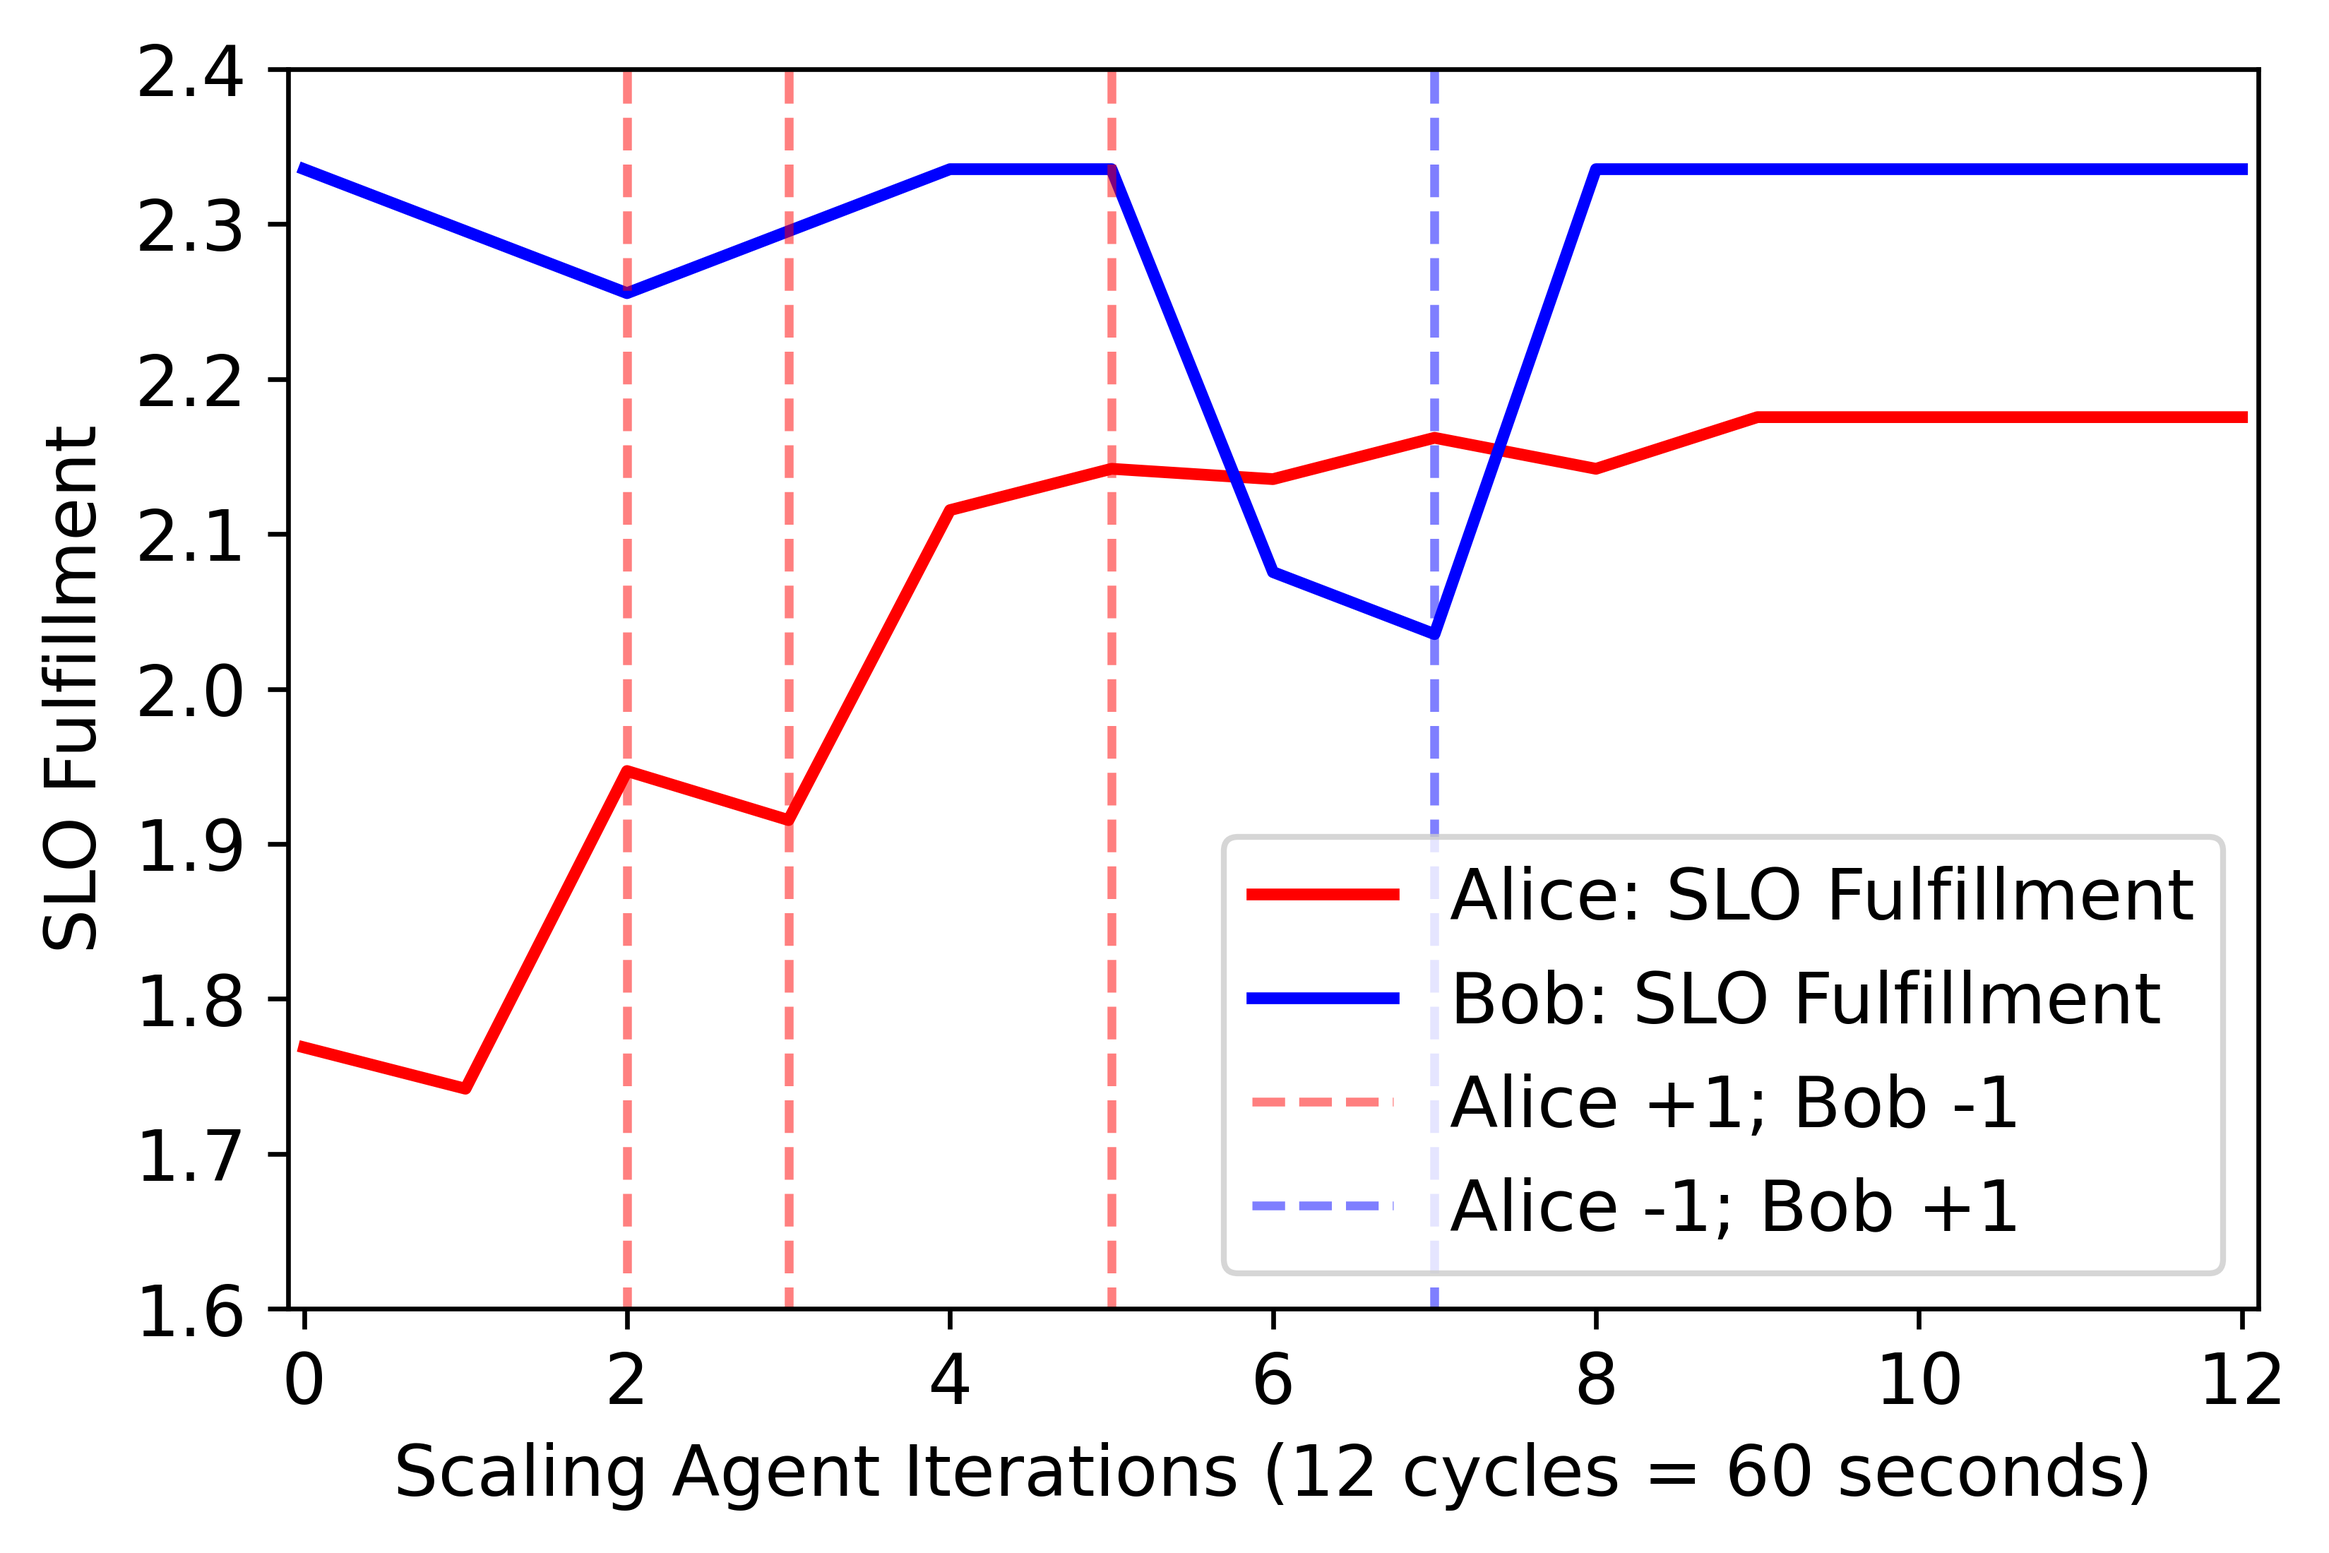
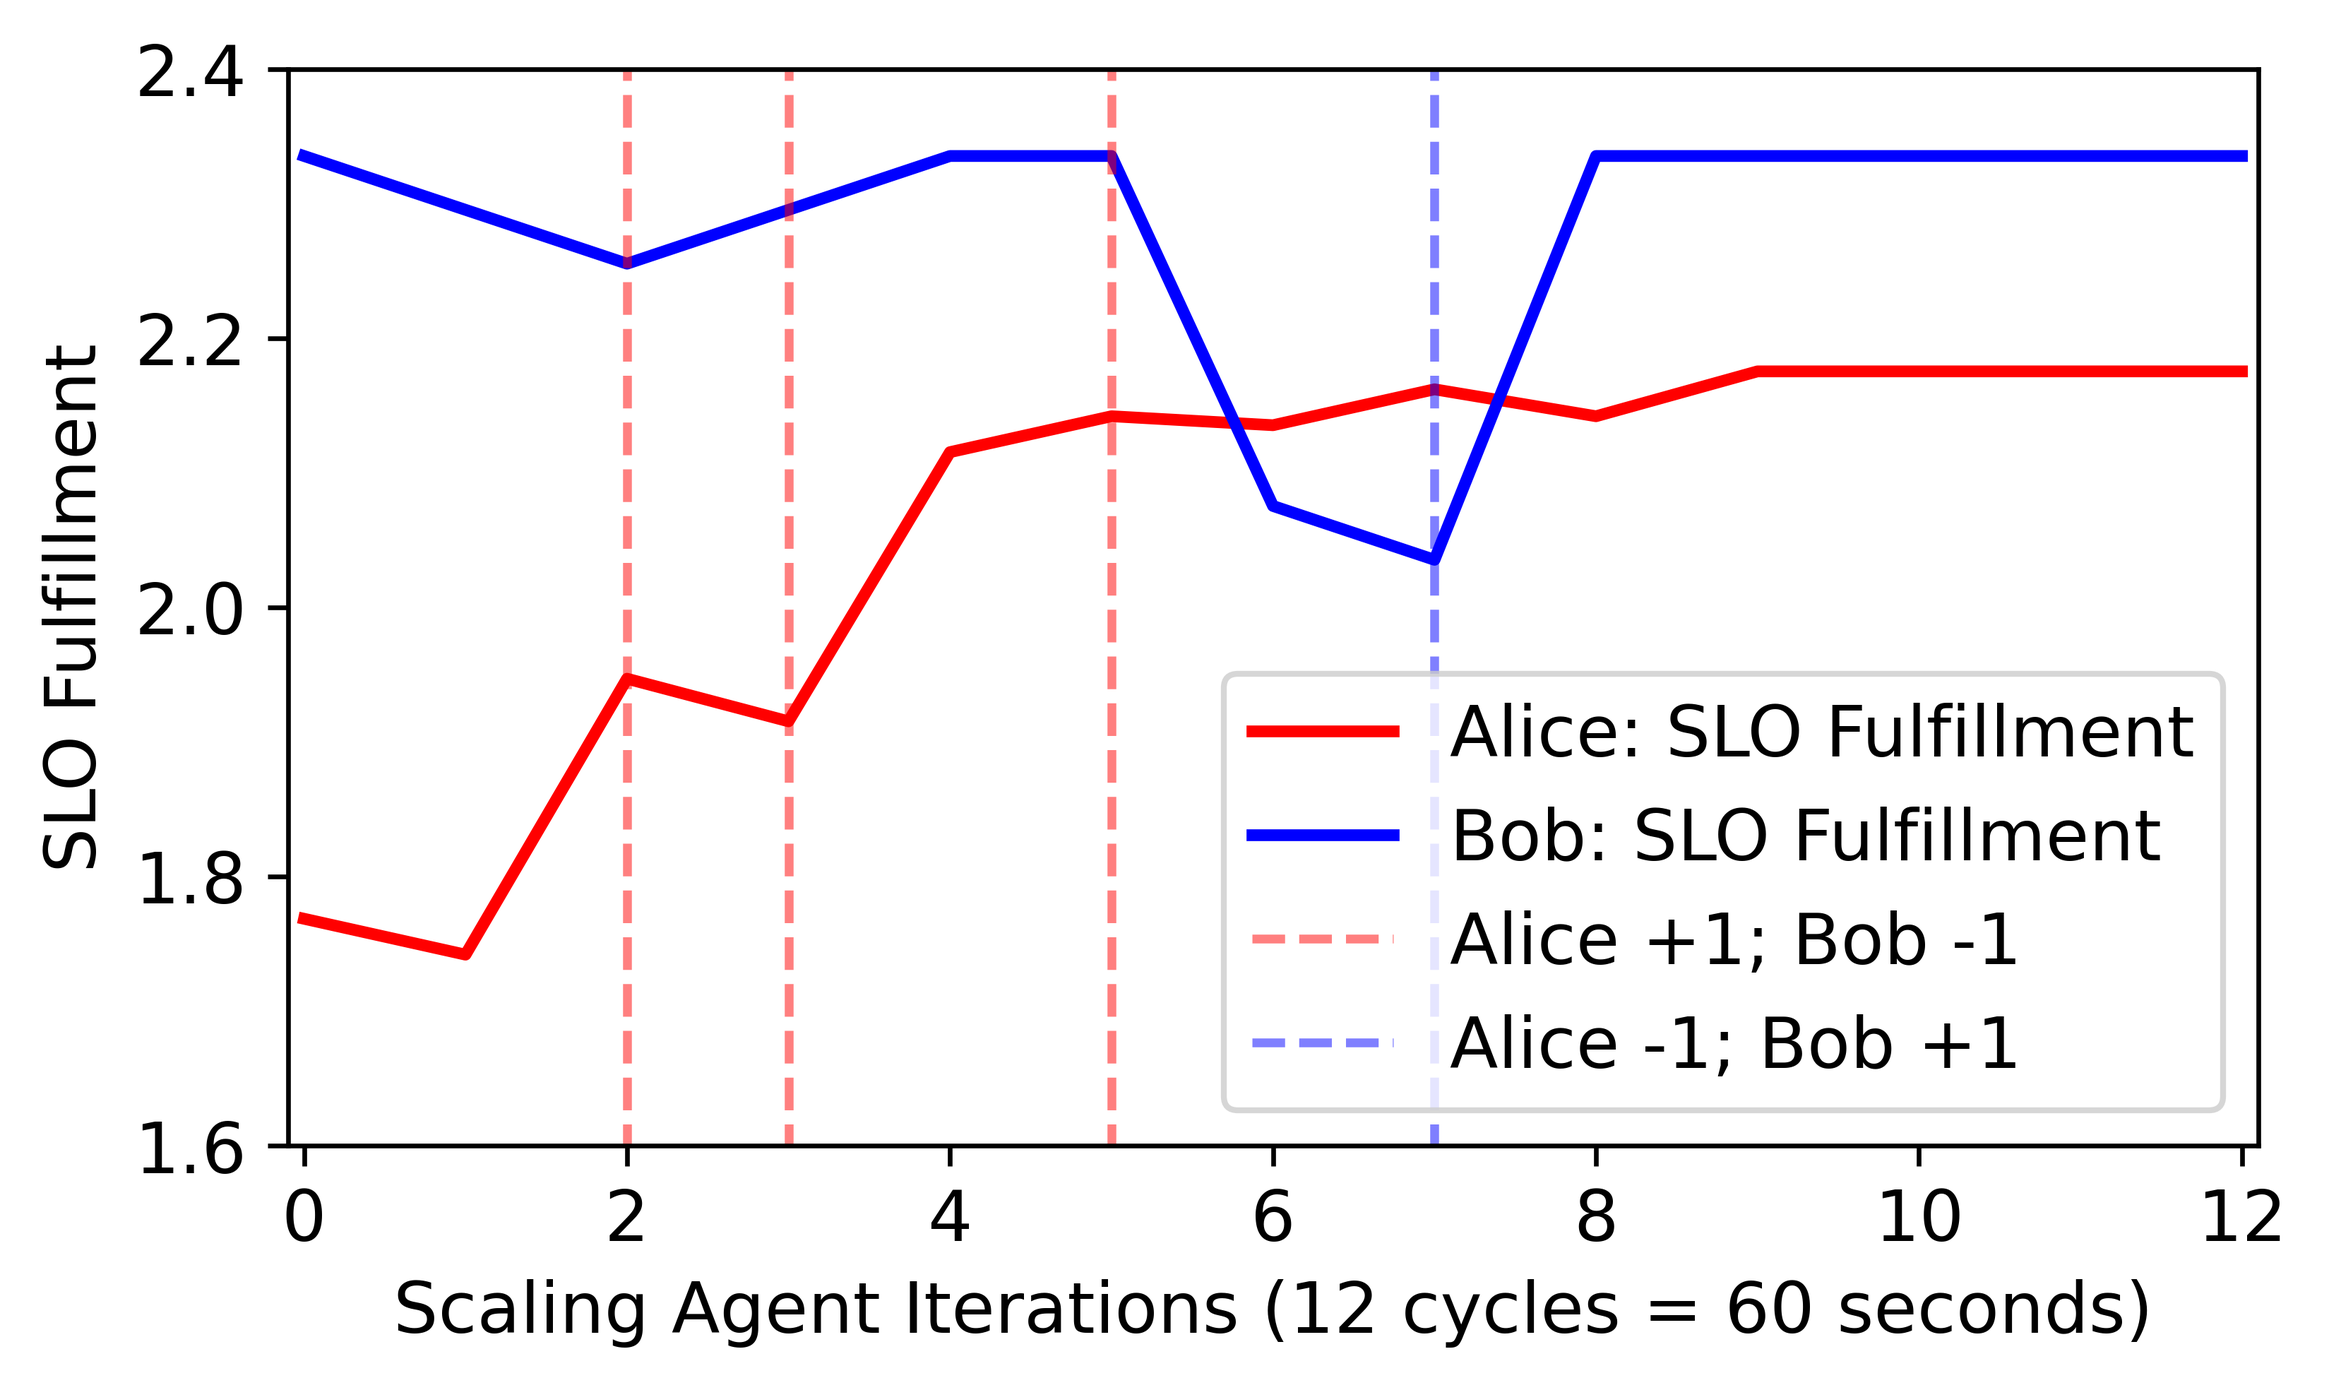
leave changes symbols as is

diff --git a/results/E1/E1.py b/results/E1/E1.py
@@ -13,7 +13,6 @@ from agent.DQN import DQN, STATE_DIM
 from agent.ScalingAgent_v2 import ScalingAgent, reset_core_states
 from slo_config import PW_MAX_CORES, Full_State, calculate_slo_reward
 
-
 plt.rcParams.update({'font.size': 12})
 
 nn = "./networks"
@@ -109,7 +108,7 @@ def reset_container_params(c, pixel, cores):
 def visualize_data(slof_files, output_file):
     m_meth, std_meth = calculate_mean_std(slof_files[0])
     m_base, _ = calculate_mean_std(slof_files[1])
-
+    changes_meth, changes_base = get_changed_lines(slof_files[0]), get_changed_lines(slof_files[1])
 
     x = np.arange(len(m_meth))
     lower_bound = np.array(m_meth) - np.array(std_meth)
@@ -118,9 +117,9 @@ def visualize_data(slof_files, output_file):
     plt.figure(figsize=(6.0, 3.8))
     # plt.plot(x, m_base, label='Baseline', color='red', linewidth=1)
     plt.plot(x, m_meth, label='Mean SLO Fulfillment', color='red', linewidth=2)
-    plt.fill_between(x, lower_bound, upper_bound, color='red', alpha=0.2, label='Standard Deviation')
-    plt.plot(x, m_base, label='Baseline Scaler', color='black', linewidth=1.5)
-    plt.vlines([10, 20, 30, 40], ymin=1.25, ymax=2.75, label='Adjust Thresholds', linestyles="--")
+    plt.fill_between(x, lower_bound, upper_bound, color='red', alpha=0.2)  # , label='Standard Deviation')
+    plt.plot(x, m_base, label='Baseline VPA', color='black', linewidth=1.5)
+    plt.vlines([0.1, 10, 20, 30, 40], ymin=1.25, ymax=2.75, label='Adjust Thresholds', linestyles="--")
 
     plt.xlim(-0.1, 49.1)
     plt.ylim(1.4, 2.4)
@@ -131,6 +130,18 @@ def visualize_data(slof_files, output_file):
     plt.legend()
     plt.savefig(output_file, dpi=600, bbox_inches="tight", format="png")
     plt.show()
+
+
+def get_changed_lines(slof_file):
+    df = pd.read_csv(slof_file)
+
+    df['cores_change'] = df['cores'].ne(df['cores'].shift())
+    df['pixel_change'] = df['pixel'].ne(df['pixel'].shift())
+
+    # Combine the change indicators
+    df['change'] = df['cores_change'] | df['pixel_change']
+    return df['change']
+
 
 def calculate_mean_std(slof_file):
     df = pd.read_csv(slof_file)
@@ -160,6 +171,7 @@ def calculate_mean_std(slof_file):
         stds.extend(std_per_field)
 
     return means, stds
+
 
 if __name__ == '__main__':
     # train_networks()

diff --git a/results/E2/E2.py b/results/E2/E2.py
@@ -84,7 +84,7 @@ def visualize_data():
 
     x = np.arange(len(slo_f_alice))
 
-    plt.figure(figsize=(6.0, 3.8))
+    plt.figure(figsize=(6.0, 3.3))
     # plt.plot(x, m_base, label='Baseline', color='red', linewidth=1)
     plt.plot(x, slo_f_alice, label='Alice: SLO Fulfillment', color='red', linewidth=2)
     plt.plot(x, slo_f_bob, label='Bob: SLO Fulfillment', color='blue', linewidth=2)
